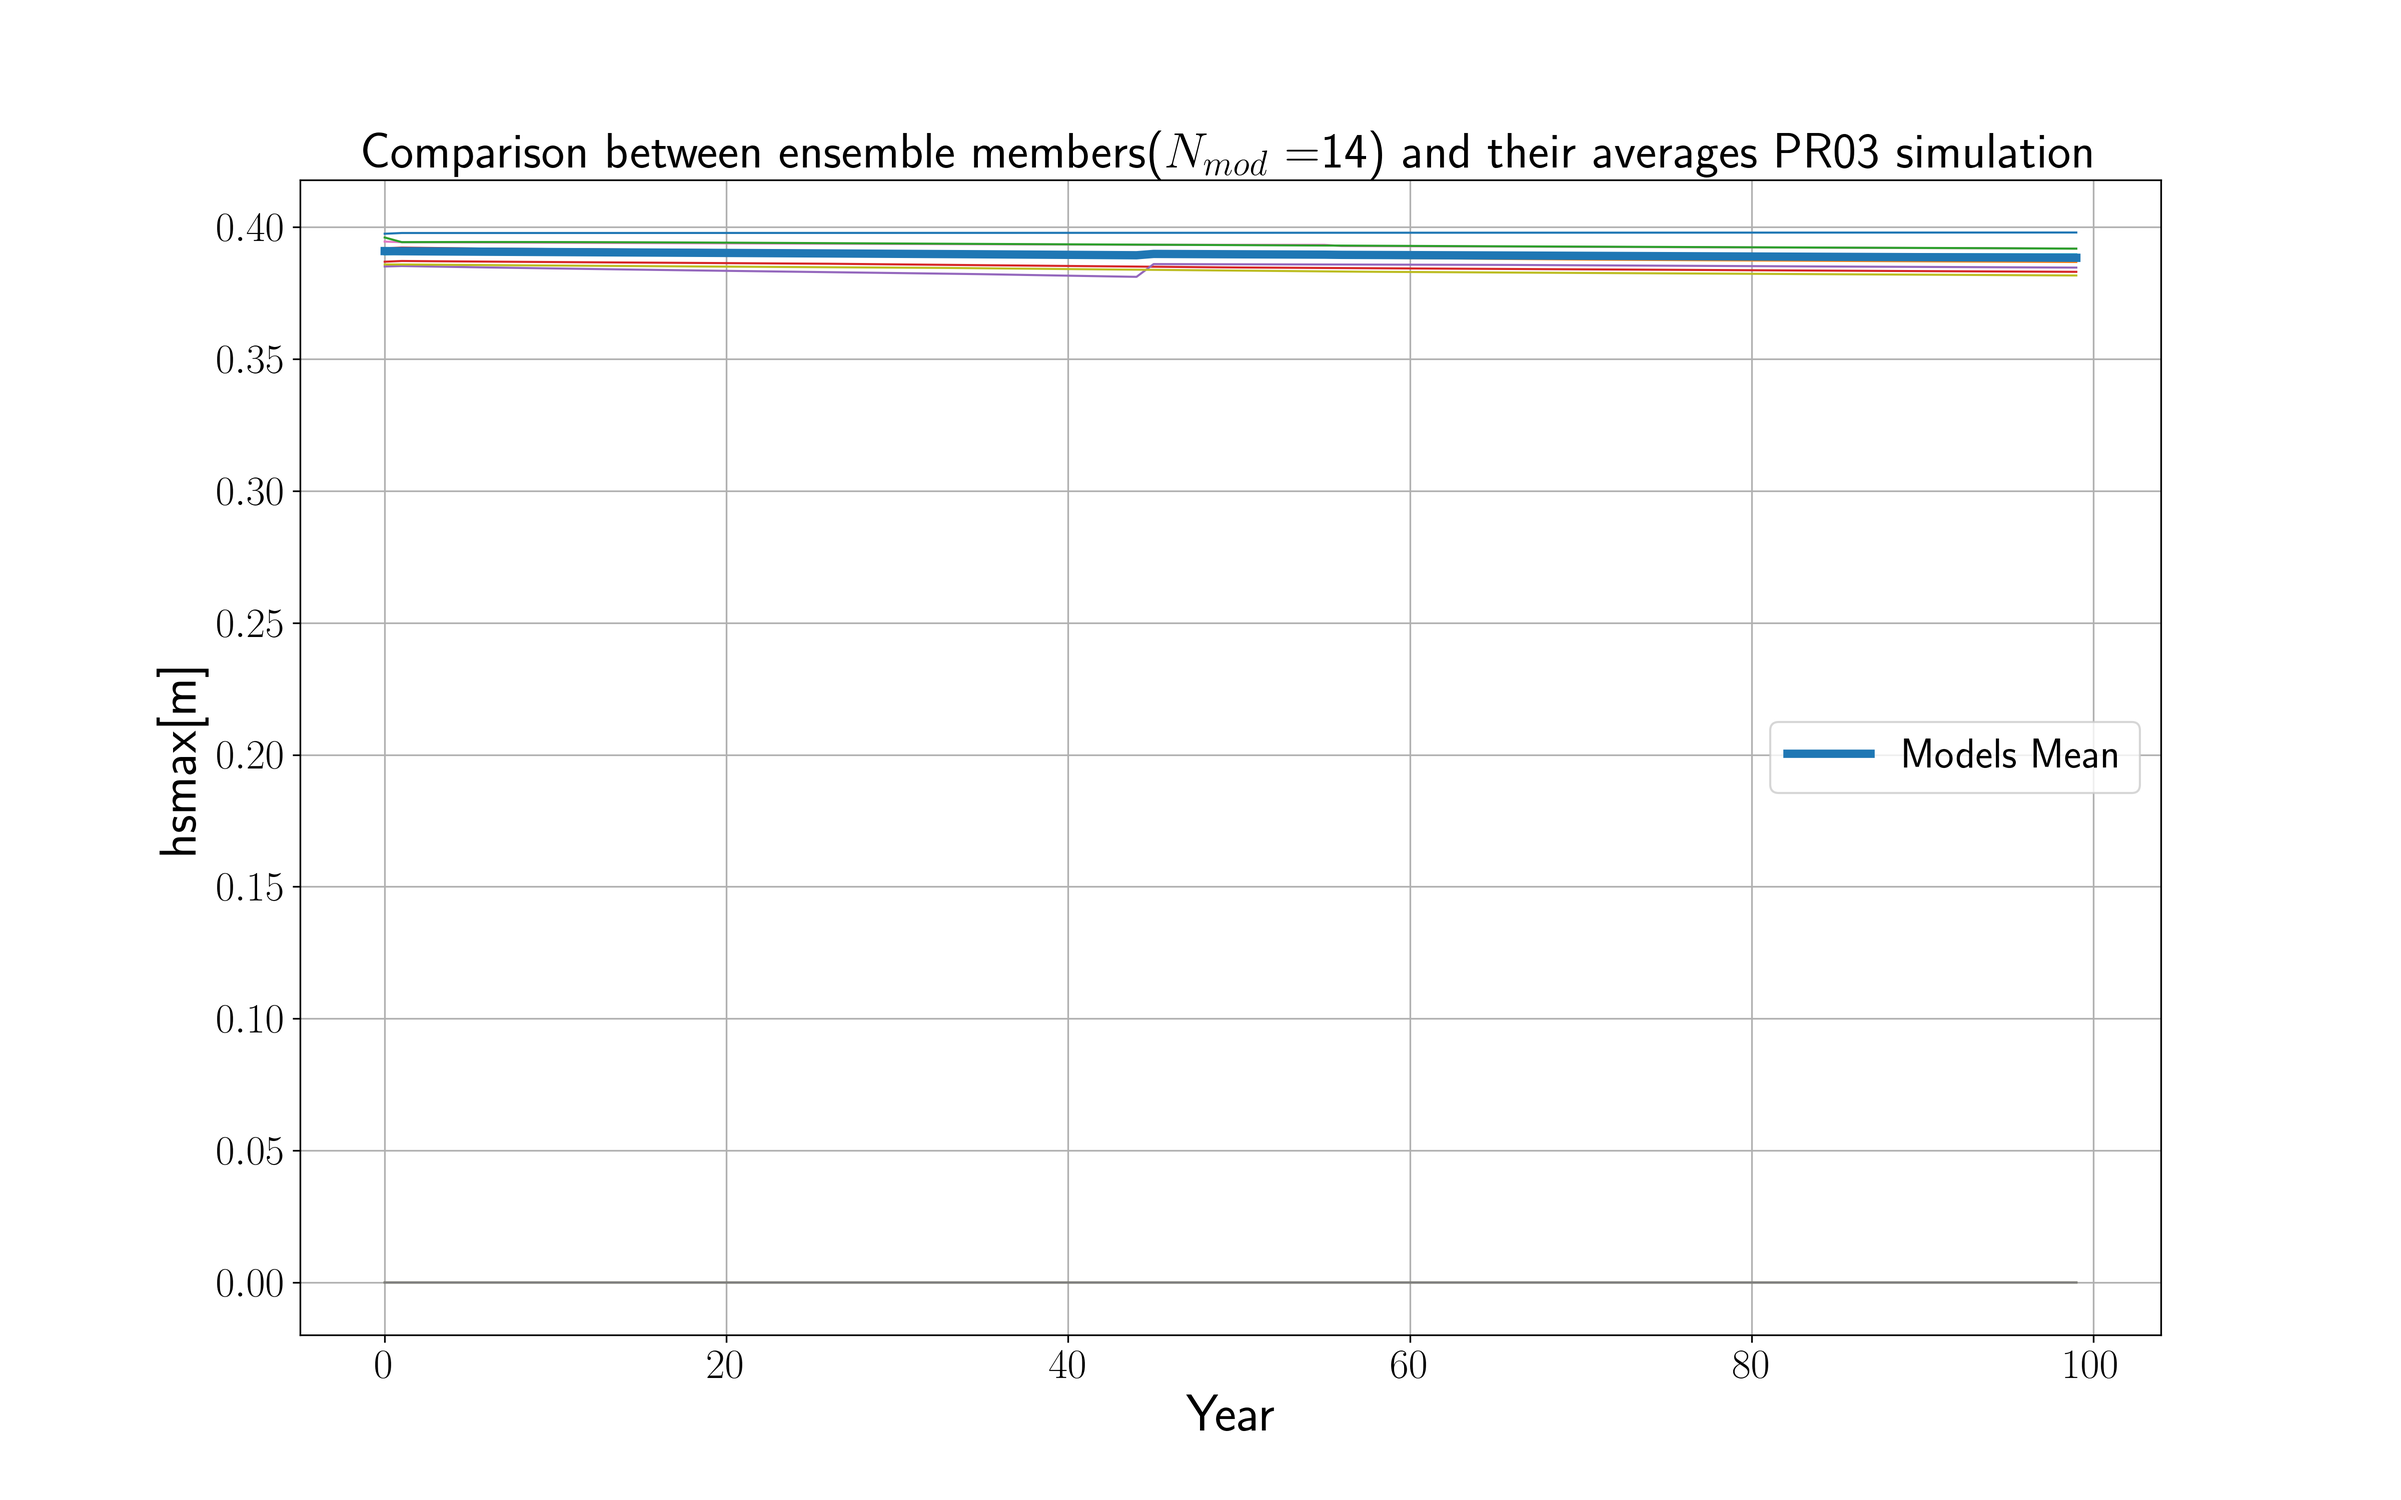
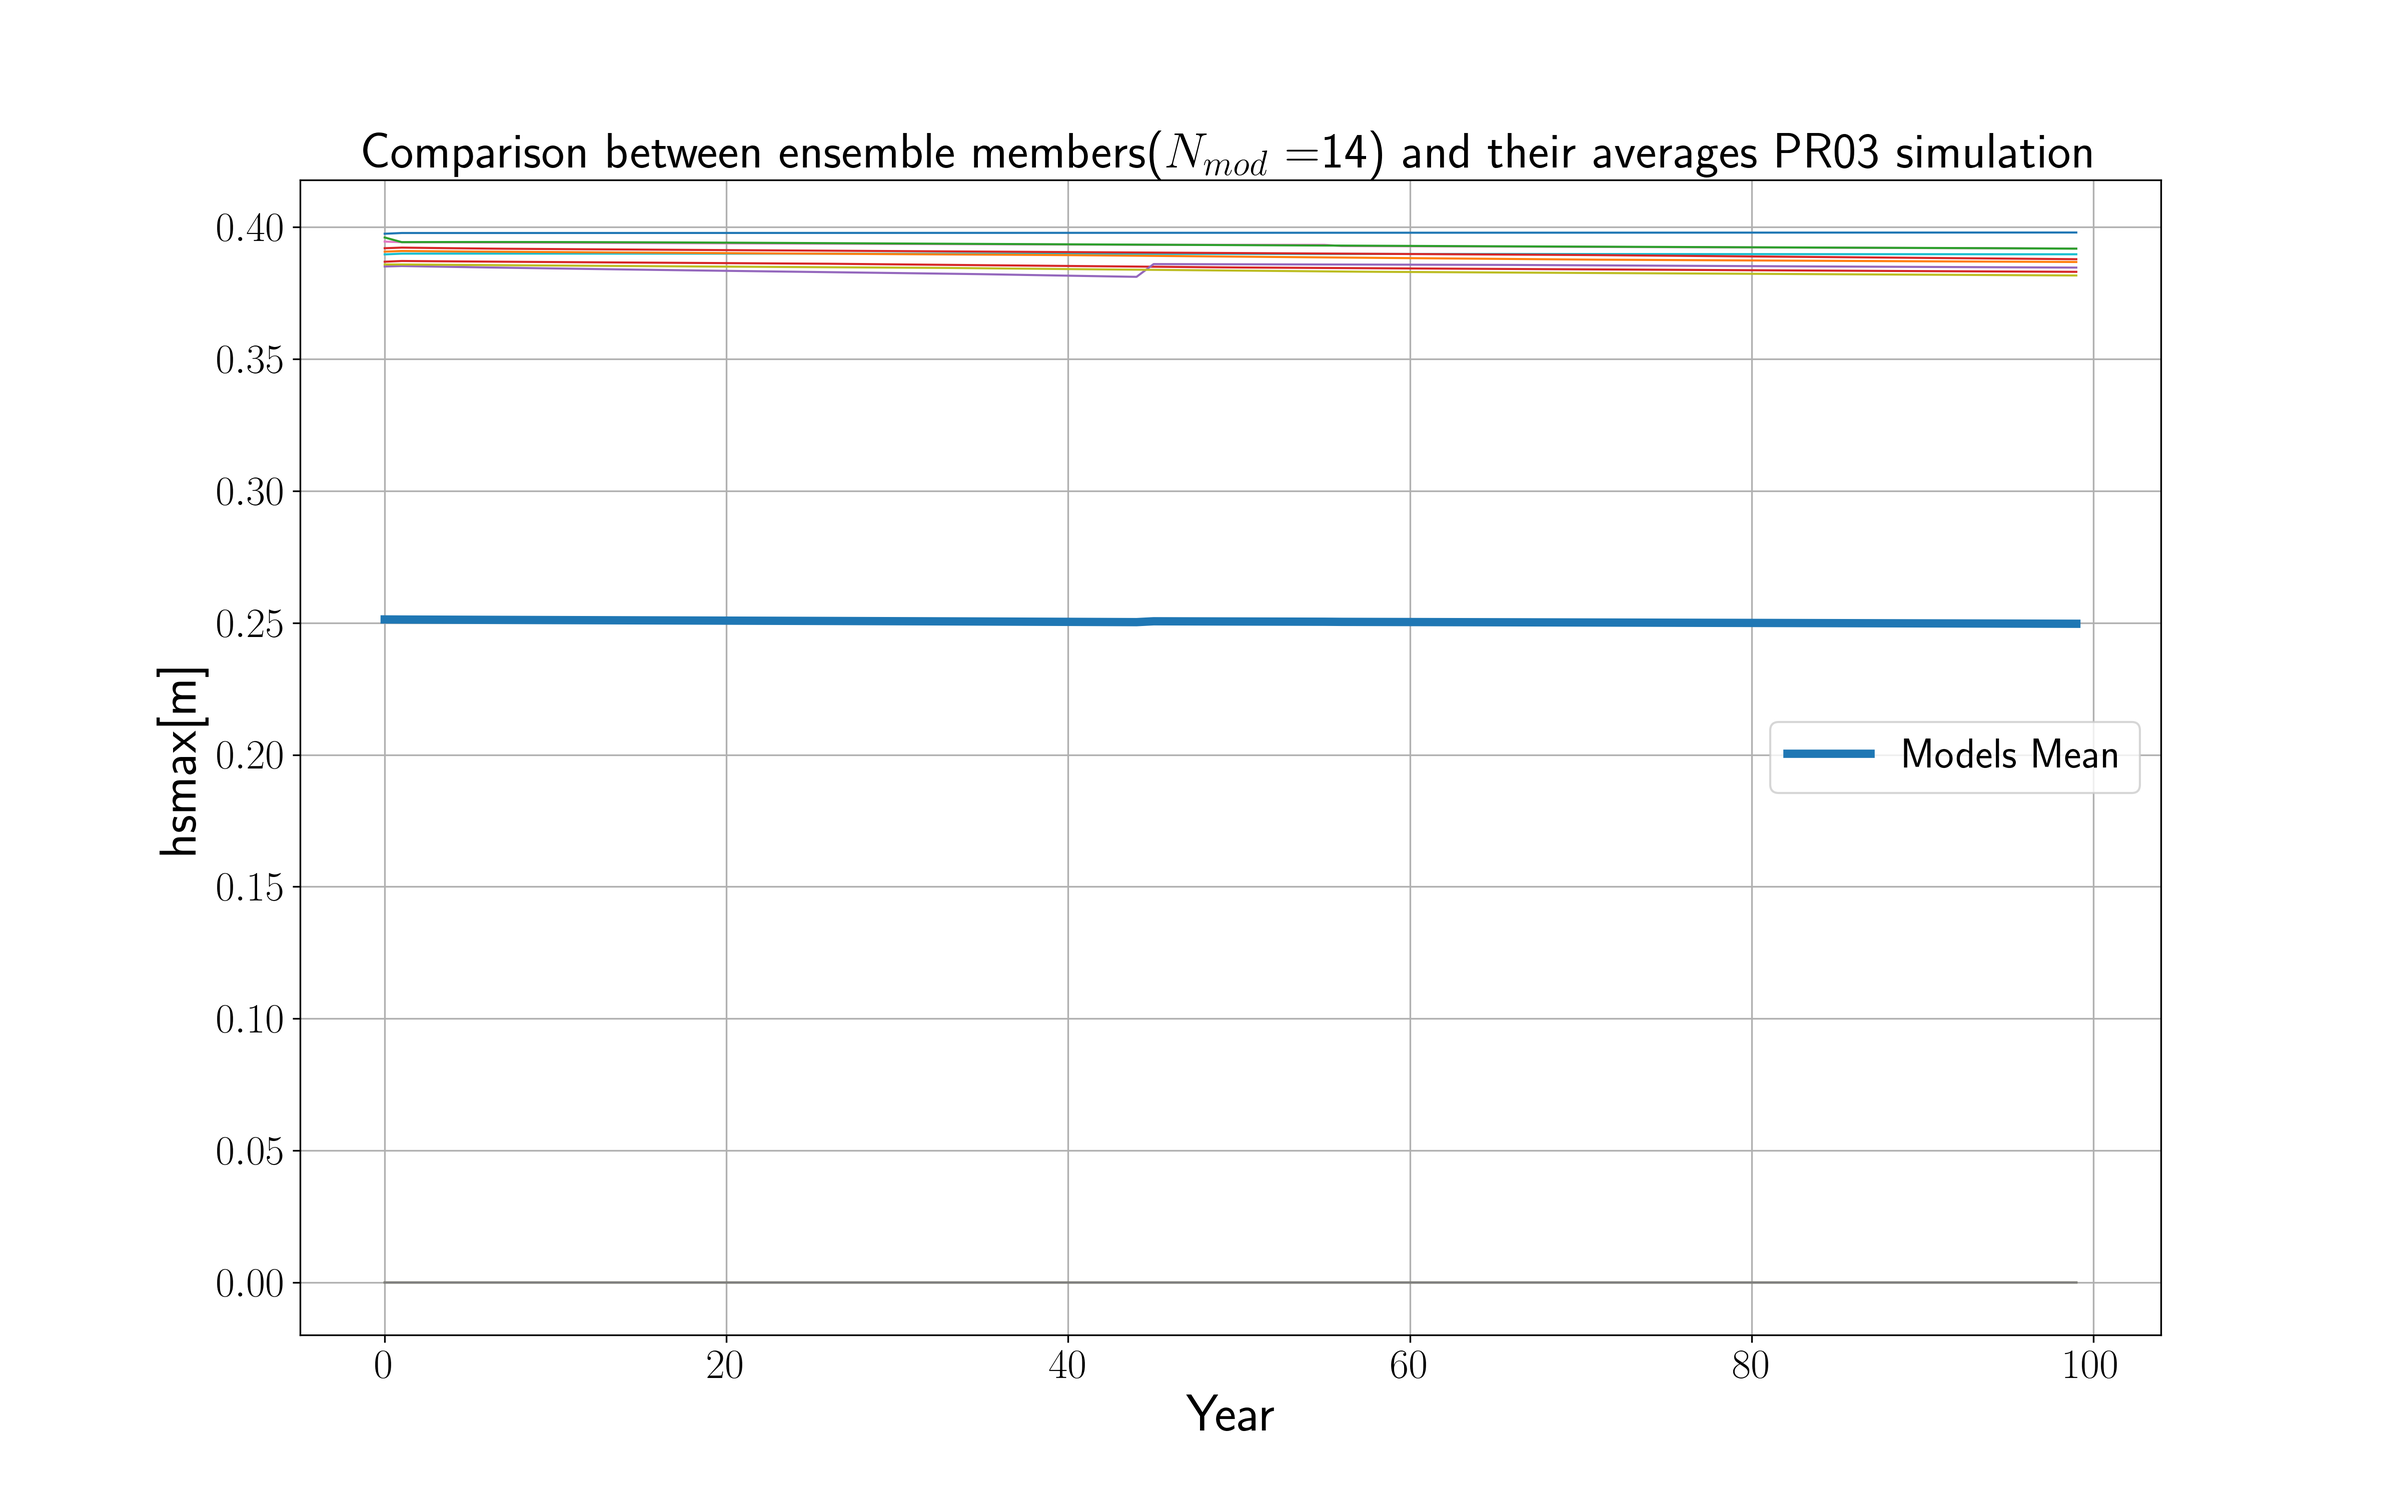
Interm mod figures and fun DS

Changed region(s): [[0.1562, 0.403, 0.875, 0.434], [0.1562, 0.155, 0.875, 0.186]]

diff --git a/Ensemble Projections/tempCodeRunnerFile.py b/Ensemble Projections/tempCodeRunnerFile.py
@@ -81,22 +81,6 @@ Tsumin = PR["Tsumin"]
 ##### Mean computation #####
 
 
-# def mean_all_mod(data, N, N_mod):
-#     """Computes the mean of all models of a given variable for each member of the interval N (could be 12 month or 365 days) and returns it as a list"""
-#     mod_mean = np.zeros(N)
-#     for day in range(N):
-#         som = 0
-#         for model in range(N_mod):
-#             # if data[0, model] == "NaN":
-#             # new_data = [x for x in data[:, model] if np.isnan(x) == False]
-#             # print(np.shape(new_data))
-#             som = som + data[day, model]
-#         day_mean = som / N_mod
-#         mod_mean[day] = day_mean
-
-#     return mod_mean
-
-
 def mean_all_mod(data):
     # transform the 0 in Nan
     data = np.where(data == 0, np.nan, data)
@@ -538,9 +522,8 @@ def comp_SIGUS_ENS():
 ##### Display #####
 
 
-def plot_all_mod(data, data_name, N_mod, extra_label):
+def plot_all_mod(data, data_name, N_mod, extra_label, snow_implt_dist=False):
     figure = plt.figure(figsize=(16, 10))
-
     if data_name == "hi_mean_month":
         lab_size_fact = 0.5
         lab_size_fact_mod = 0.75
@@ -562,7 +545,18 @@ def plot_all_mod(data, data_name, N_mod, extra_label):
         Nbre = N_years_PR
         label_x = "Year"
     for model in range(N_mod):
-        plt.plot(time_range, data[:, model], linewidth=1 * lab_size_fact_mod)
+        if snow_implt_dist == True:
+            color_mod = np.fill("cyan", N_mod)
+            for i in model_index_without_snow:
+                color_mod[i] = "red"
+            plt.plot(
+                time_range,
+                data[:, model],
+                linewidth=1 * lab_size_fact_mod,
+                color=color_mod[model],
+            )
+        else:
+            plt.plot(time_range, data[:, model], linewidth=1 * lab_size_fact_mod)
     if data_name == "hi":
         plt.plot(
             time_range_mu,
@@ -698,6 +692,155 @@ def subplot_all_mod(data1, data2, data3, data_name, N_mod, extra_label):
 
     plt.savefig(save_dir + "subplot_all_mod_" + extra_label + ".png", dpi=300)
     plt.clf()
+
+
+def summarized_projection(display_single_models=False, save=False):
+    """
+    Plots all relevant informations about projection.
+    Turn displaY_single_models to True if you want to have see all the models results.
+    """
+    PR03_himean = himean[:, :, 0]
+    PR03_himax = himax[:, :, 0]
+    PR03_himin = himin[:, :, 0]
+    PR03_hsmax = hsmax[:, :, 0]
+    PR03_Tsumin = Tsumin[:, :, 0]
+
+    PR06_himean = himean[:, :, 1]
+    PR06_himax = himax[:, :, 1]
+    PR06_himin = himin[:, :, 1]
+    PR06_hsmax = hsmax[:, :, 1]
+    PR06_Tsumin = Tsumin[:, :, 1]
+
+    PR12_himean = himean[:, :, 2]
+    PR12_himax = himax[:, :, 2]
+    PR12_himin = himin[:, :, 2]
+    PR12_hsmax = hsmax[:, :, 2]
+    PR12_Tsumin = Tsumin[:, :, 2]
+
+    # The following arrays have dims (n_proj = 3,n_year = 100, n_mod = 14):   -n_proj for the projection,
+    #                                                                         -n_year for the year
+    #                                                                         -n_mod for the model
+    PR_himean = np.array([PR03_himean, PR06_himean, PR12_himean])
+    PR_himax = np.array([PR03_himax, PR06_himax, PR12_himax])
+    PR_himin = np.array([PR03_himin, PR06_himin, PR12_himin])
+    PR_hsmax = np.array([PR03_hsmax, PR06_hsmax, PR12_hsmax])
+    PR_Tsumin = np.array([PR03_Tsumin, PR06_Tsumin, PR12_Tsumin])
+
+    # Regrouping all datas in a single dictionnary to allows faster and more flexible plotting.
+    Projections = {
+        "himean": PR_himean,
+        "himax": PR_himax,
+        "himin": PR_himin,
+        "hsmax": PR_hsmax,
+        "Tsumin": PR_Tsumin,
+    }
+
+    for key in Projections.keys():
+        mean = np.mean(Projections[key], axis=2)
+        std = np.std(Projections[key], axis=2) / 2
+        plt.title(f"Multi-model Analysis for PR Scenarios : {key}", size=28)
+        if key == "himean":
+            y_label = r"$hi_{mean} [m]$"
+        if key == "himax":
+            y_label = r"$hi_{max} [m]$"
+        if key == "himin":
+            y_label = r"$hi_{min} [m]$"
+        if key == "hsmax":
+            y_label = r"$hs_{max} [m]$"
+        if key == "Tsumin":
+            y_label = r"$Tsu_{min} [{}^{\circ}K]$"
+        #### - PR03 - ####
+        # Individuals models
+        if display_single_models:
+            plt.plot(
+                [year for year in range(N_years_PR)],
+                Projections[key][0, :, :],
+                alpha=0.6,
+                color="tab:blue",
+            )
+        # ensemble mean
+        plt.plot(
+            [year for year in range(N_years_PR)],
+            mean[0, :],
+            color="tab:blue",
+            label=r"$\mu_{PR03}$",
+            linewidth=4,
+        )
+        # shadow std
+        plt.fill_between(
+            [year for year in range(N_years_PR)],
+            mean[0, :] - std[0, :],
+            mean[0, :] + std[0, :],
+            alpha=0.7,
+            color="tab:blue",
+            label=r"$\mu_{PR03} \pm \frac{\sigma_{PR03}}{2}$",
+        )
+
+        #### - PR06 - ####
+        # Individuals models
+        if display_single_models:
+            plt.plot(
+                [year for year in range(N_years_PR)],
+                Projections[key][1, :, :],
+                alpha=0.6,
+                color="tab:orange",
+            )
+        # ensemble mean
+        plt.plot(
+            [year for year in range(N_years_PR)],
+            mean[1, :],
+            color="tab:orange",
+            label=r"$\mu_{PR06}$",
+            linewidth=4,
+        )
+        # shadow std
+        plt.fill_between(
+            [year for year in range(N_years_PR)],
+            mean[1, :] - std[1, :],
+            mean[1, :] + std[1, :],
+            alpha=0.7,
+            color="tab:orange",
+            label=r"$\mu_{PR06} \pm \frac{\sigma_{PR06}}{2}$",
+        )
+
+        #### - PR12 - ####
+        # Individuals models
+        if display_single_models:
+            plt.plot(
+                [year for year in range(N_years_PR)],
+                Projections[key][2, :, :],
+                alpha=0.6,
+                color="tab:red",
+            )
+        # ensemble mean
+        plt.plot(
+            [year for year in range(N_years_PR)],
+            mean[2, :],
+            color="tab:red",
+            label=r"$\mu_{PR12}$",
+            linewidth=4,
+        )
+        # shadow std
+        plt.fill_between(
+            [year for year in range(N_years_PR)],
+            mean[2, :] - std[2, :],
+            mean[2, :] + std[2, :],
+            alpha=0.7,
+            color="tab:red",
+            label=r"$\mu_{PR12} \pm \frac{\sigma_{PR12}}{2}$",
+        )
+
+        plt.legend(fontsize=24)
+        plt.xticks(fontsize=24)
+        plt.yticks(fontsize=24)
+        plt.ylabel(y_label, size=29)
+        plt.xlabel("Year", size=29)
+        plt.grid()
+        if save:
+            plt.savefig(save_dir + "PR_MutliMod_" + str(key) + ".png")
+            plt.clf()
+        else:
+            plt.show()
 
 
 def subplot_TSIMAL_SIGUS_ENS(data1, data2, data3, N_mod, extra_label):
@@ -925,3 +1068,5 @@ if __name__ == "__main__":
         N_mod=N_mod_PR,
         extra_label="PR12",
     )
+    ##### Plot of the multi-model grouped by projection scenario ######
+    summarized_projection(display_single_models=False, save=True)

diff --git a/Ensemble Projections/data_analysis.py b/Ensemble Projections/data_analysis.py
@@ -83,7 +83,7 @@ Tsumin = PR["Tsumin"]
 
 def mean_all_mod(data):
     # transform the 0 in Nan
-    data = np.where(data == 0, np.nan, data)
+    # data = np.where(data == 0, np.nan, data)
     return np.mean(ma.masked_invalid(data), axis=1)
 
 
@@ -522,9 +522,10 @@ def comp_SIGUS_ENS():
 ##### Display #####
 
 
-def plot_all_mod(data, data_name, N_mod, extra_label):
+def plot_all_mod(
+    data, data_name, N_mod, extra_label, snow_implt_dist=False, subplot=False
+):
     figure = plt.figure(figsize=(16, 10))
-
     if data_name == "hi_mean_month":
         lab_size_fact = 0.5
         lab_size_fact_mod = 0.75
@@ -546,7 +547,20 @@ def plot_all_mod(data, data_name, N_mod, extra_label):
         Nbre = N_years_PR
         label_x = "Year"
     for model in range(N_mod):
-        plt.plot(time_range, data[:, model], linewidth=1 * lab_size_fact_mod)
+        if snow_implt_dist == True:
+            color_mod = np.full(N_mod, "tab:cyan")
+            legend_mod = np.full(N_mod, "Models with snow")
+            for i in model_index_without_snow:
+                color_mod[i] = "red"
+                legend_mod[i] = "Models without snow"
+            plt.plot(
+                time_range,
+                data[:, model],
+                linewidth=1 * lab_size_fact_mod,
+                color=color_mod[model],
+            )
+        else:
+            plt.plot(time_range, data[:, model], linewidth=1 * lab_size_fact_mod)
     if data_name == "hi":
         plt.plot(
             time_range_mu,
@@ -601,7 +615,13 @@ def plot_all_mod(data, data_name, N_mod, extra_label):
     plt.yticks(fontsize=20 * lab_size_fact)
     plt.grid()
     plt.legend(fontsize=20 * lab_size_fact)
-    plt.savefig(save_dir + data_name + "_all_mod_" + extra_label + ".png", dpi=300)
+    if snow_implt_dist == True:
+        add_text = "_DS"
+    else:
+        add_text = ""
+    plt.savefig(
+        save_dir + data_name + "_all_mod_" + extra_label + add_text + ".png", dpi=300
+    )
     # plt.show()
     plt.clf()
 
@@ -726,6 +746,7 @@ def summarized_projection(display_single_models=False, save=False):
     }
 
     for key in Projections.keys():
+        figure = plt.figure(figsize=(16, 10))
         mean = np.mean(Projections[key], axis=2)
         std = np.std(Projections[key], axis=2) / 2
         plt.title(f"Multi-model Analysis for PR Scenarios : {key}", size=28)
@@ -944,12 +965,14 @@ if __name__ == "__main__":
     )
 
     ### Computation of the month mean of the variables ###
+    """
     # hi #
     hi_mean_month = np.zeros((12, N_mod_CTL))
     for model in range(N_mod_CTL):
         hi_mean_month_mod = month_mean(hi[:, model])
         hi_mean_month[:, model] = hi_mean_month_mod
     # print(hi_mean_month)
+    """
     # hs #
     hs_mean_month = np.zeros((12, N_mod_CTL))
     for model in range(N_mod_CTL):
@@ -962,13 +985,14 @@ if __name__ == "__main__":
         Tsu_mean_month_mod = month_mean(Tsu[:, model])
         Tsu_mean_month[:, model] = Tsu_mean_month_mod
     # print(Tsu_mean_month)
-    ### Plot of the ensemble simulations with month resolution ###
+    """  ### Plot of the ensemble simulations with month resolution ###
     plot_all_mod(
         data=hi_mean_month,
         data_name="hi_mean_month",
         N_mod=N_mod_CTL,
         extra_label="CTL",
     )
+    """
     subplot_all_mod(
         data1=hi_mean_month,
         data2=Tsu,
@@ -976,10 +1000,32 @@ if __name__ == "__main__":
         data_name=["hi_mean_month,Tsu,hs"],
         N_mod=N_mod_CTL,
         extra_label="CTL",
+    )"""
+    ##### Plot with distinction betwsen models with and without snow #####
+    plot_all_mod(
+        data=hi,
+        data_name="hi",
+        N_mod=N_mod_CTL,
+        extra_label="CTL",
+        snow_implt_dist=True,
+    )
+    plot_all_mod(
+        data=Tsu,
+        data_name="Tsu",
+        N_mod=N_mod_CTL,
+        extra_label="CTL",
+        snow_implt_dist=True,
+    )
+    plot_all_mod(
+        data=hs,
+        data_name="hs",
+        N_mod=N_mod_CTL,
+        extra_label="CTL",
+        snow_implt_dist=True,
     )
 
     ########## Verification ###########
-    comp_ENS_MU71()
+    """comp_ENS_MU71()
     comp_TSIMAL_MU71()
     comp_SIGUS_MU71()
     comp_TSIMAL_ENS()
@@ -1059,4 +1105,4 @@ if __name__ == "__main__":
         extra_label="PR12",
     )"""
     ##### Plot of the multi-model grouped by projection scenario ######
-    summarized_projection(display_single_models=False, save=True)
+    # summarized_projection(display_single_models=False, save=True)
